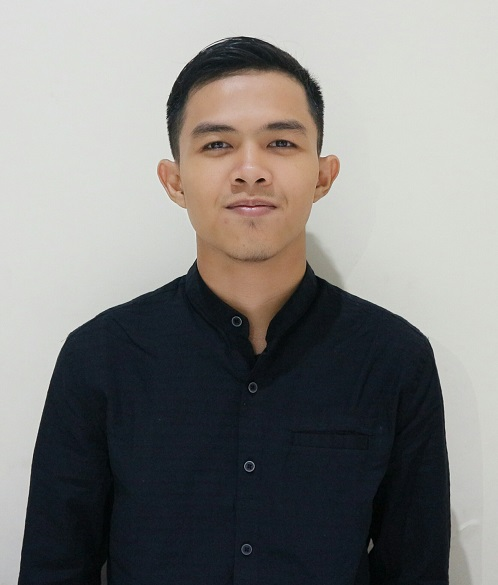
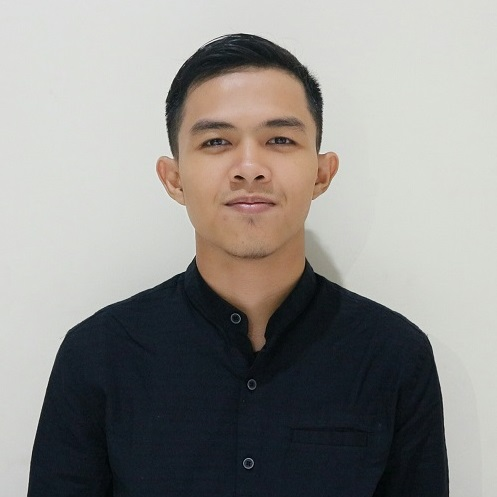
menambah style pada halaman cv

diff --git a/styles.css b/styles.css
@@ -1,0 +1,124 @@
+* {
+    font-family: 'Helvetica Neue', Helvetica, Arial,sans-serif;
+    padding: 0;
+    margin: 0;
+    box-sizing: border-box;
+}
+
+body {
+    background-color: white;
+    width: 100%;
+    height: 100%;
+}
+
+/* navbar sticky */
+
+.sticky {
+    position: sticky;
+    top: 0;
+}
+
+/* posisi navbar disebelah kiri */
+
+li {
+    float: left;
+    list-style: none;
+}
+
+/* mengatur dekorasi link navigasi */
+
+li a {
+    display: block;
+    color: white;
+    text-align: center;
+    padding: 14px 16px;
+    text-decoration: none;
+}
+
+/* efek hover pada link navigasi */
+
+li a:hover:not(.active) {
+    background-color:#ddd;
+}
+
+/* untuk menampilkan halaman yang aktif*/
+
+li a.active {
+    color:white;
+    background-color:#72ab00;
+}
+
+/* memberi ukuran tinggi kolom navigasi dan juga warna background */
+
+.nav {
+    color: white;
+    background-color: black;
+    height: 46px;
+}
+
+/* menengahkan semua elemen header */
+
+.header {
+    background-color: #f8f8f8;
+    padding: 20px;
+    text-align: center;
+    color: black;
+    max-width: 100%;
+}
+
+/* mengatur gambar agar bentuk bulat */
+
+img {
+    border-radius: 50%;
+    width: 250px;
+}
+
+/* mengatur font pada header */
+
+.header h1 {
+    color: #72ab00;
+    margin-top: 10px;
+    margin-bottom: 10px;
+}
+
+.header h2,h3,h4 {
+    color: #72ab00;
+    font-weight: lighter;
+    padding: 5px;
+}
+
+/* mangatur tampilan link sosial media */
+
+.fa {
+    padding: 10px;
+    font-size: 30px;
+    width: 30px;
+    text-align: center;
+    text-decoration: none;
+    margin: 5px 2px;
+    border-radius: 50%;
+}
+
+.fa:hover {
+    opacity: 0.7;
+}
+
+.fa-facebook {
+    background: white;
+    color: #3B5998;
+}
+
+.fa-twitter {
+    background:white;
+    color:#55ACEE;
+}
+
+.fa-google {
+    background:white;
+    color:#dd4b39;
+}
+
+.fa-linkedin {
+    background:white;
+    color:#007bb5;
+}
